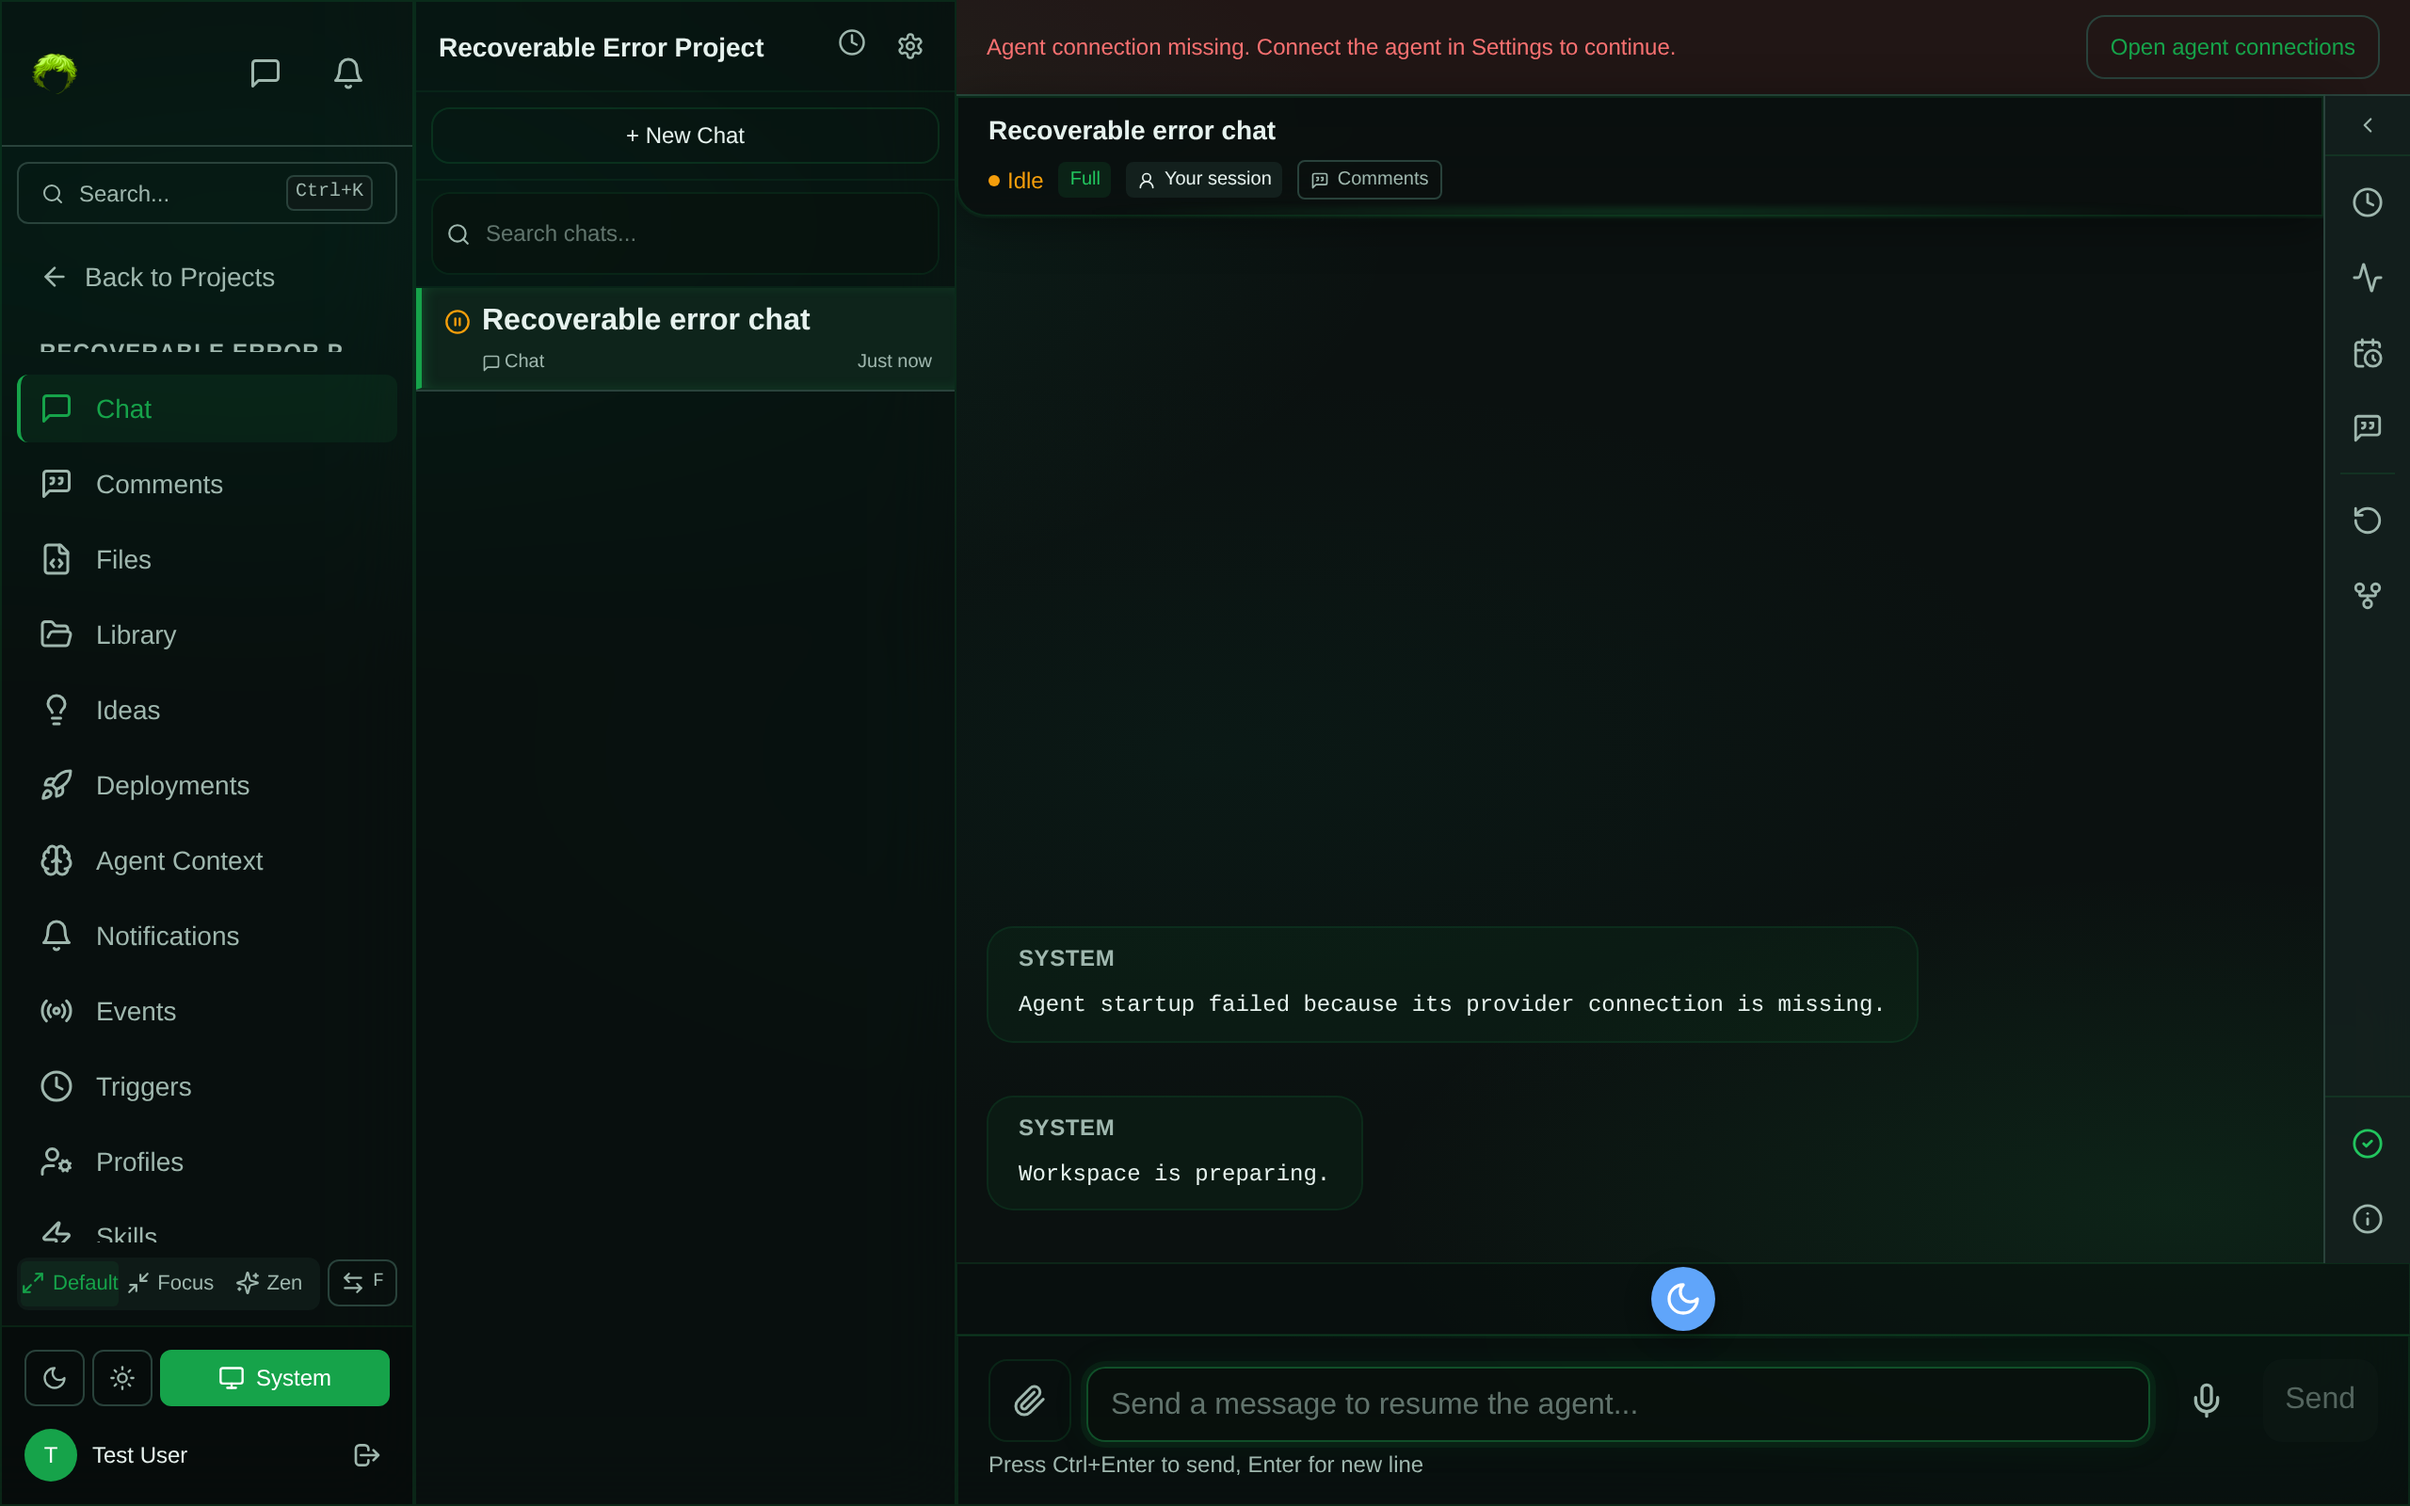
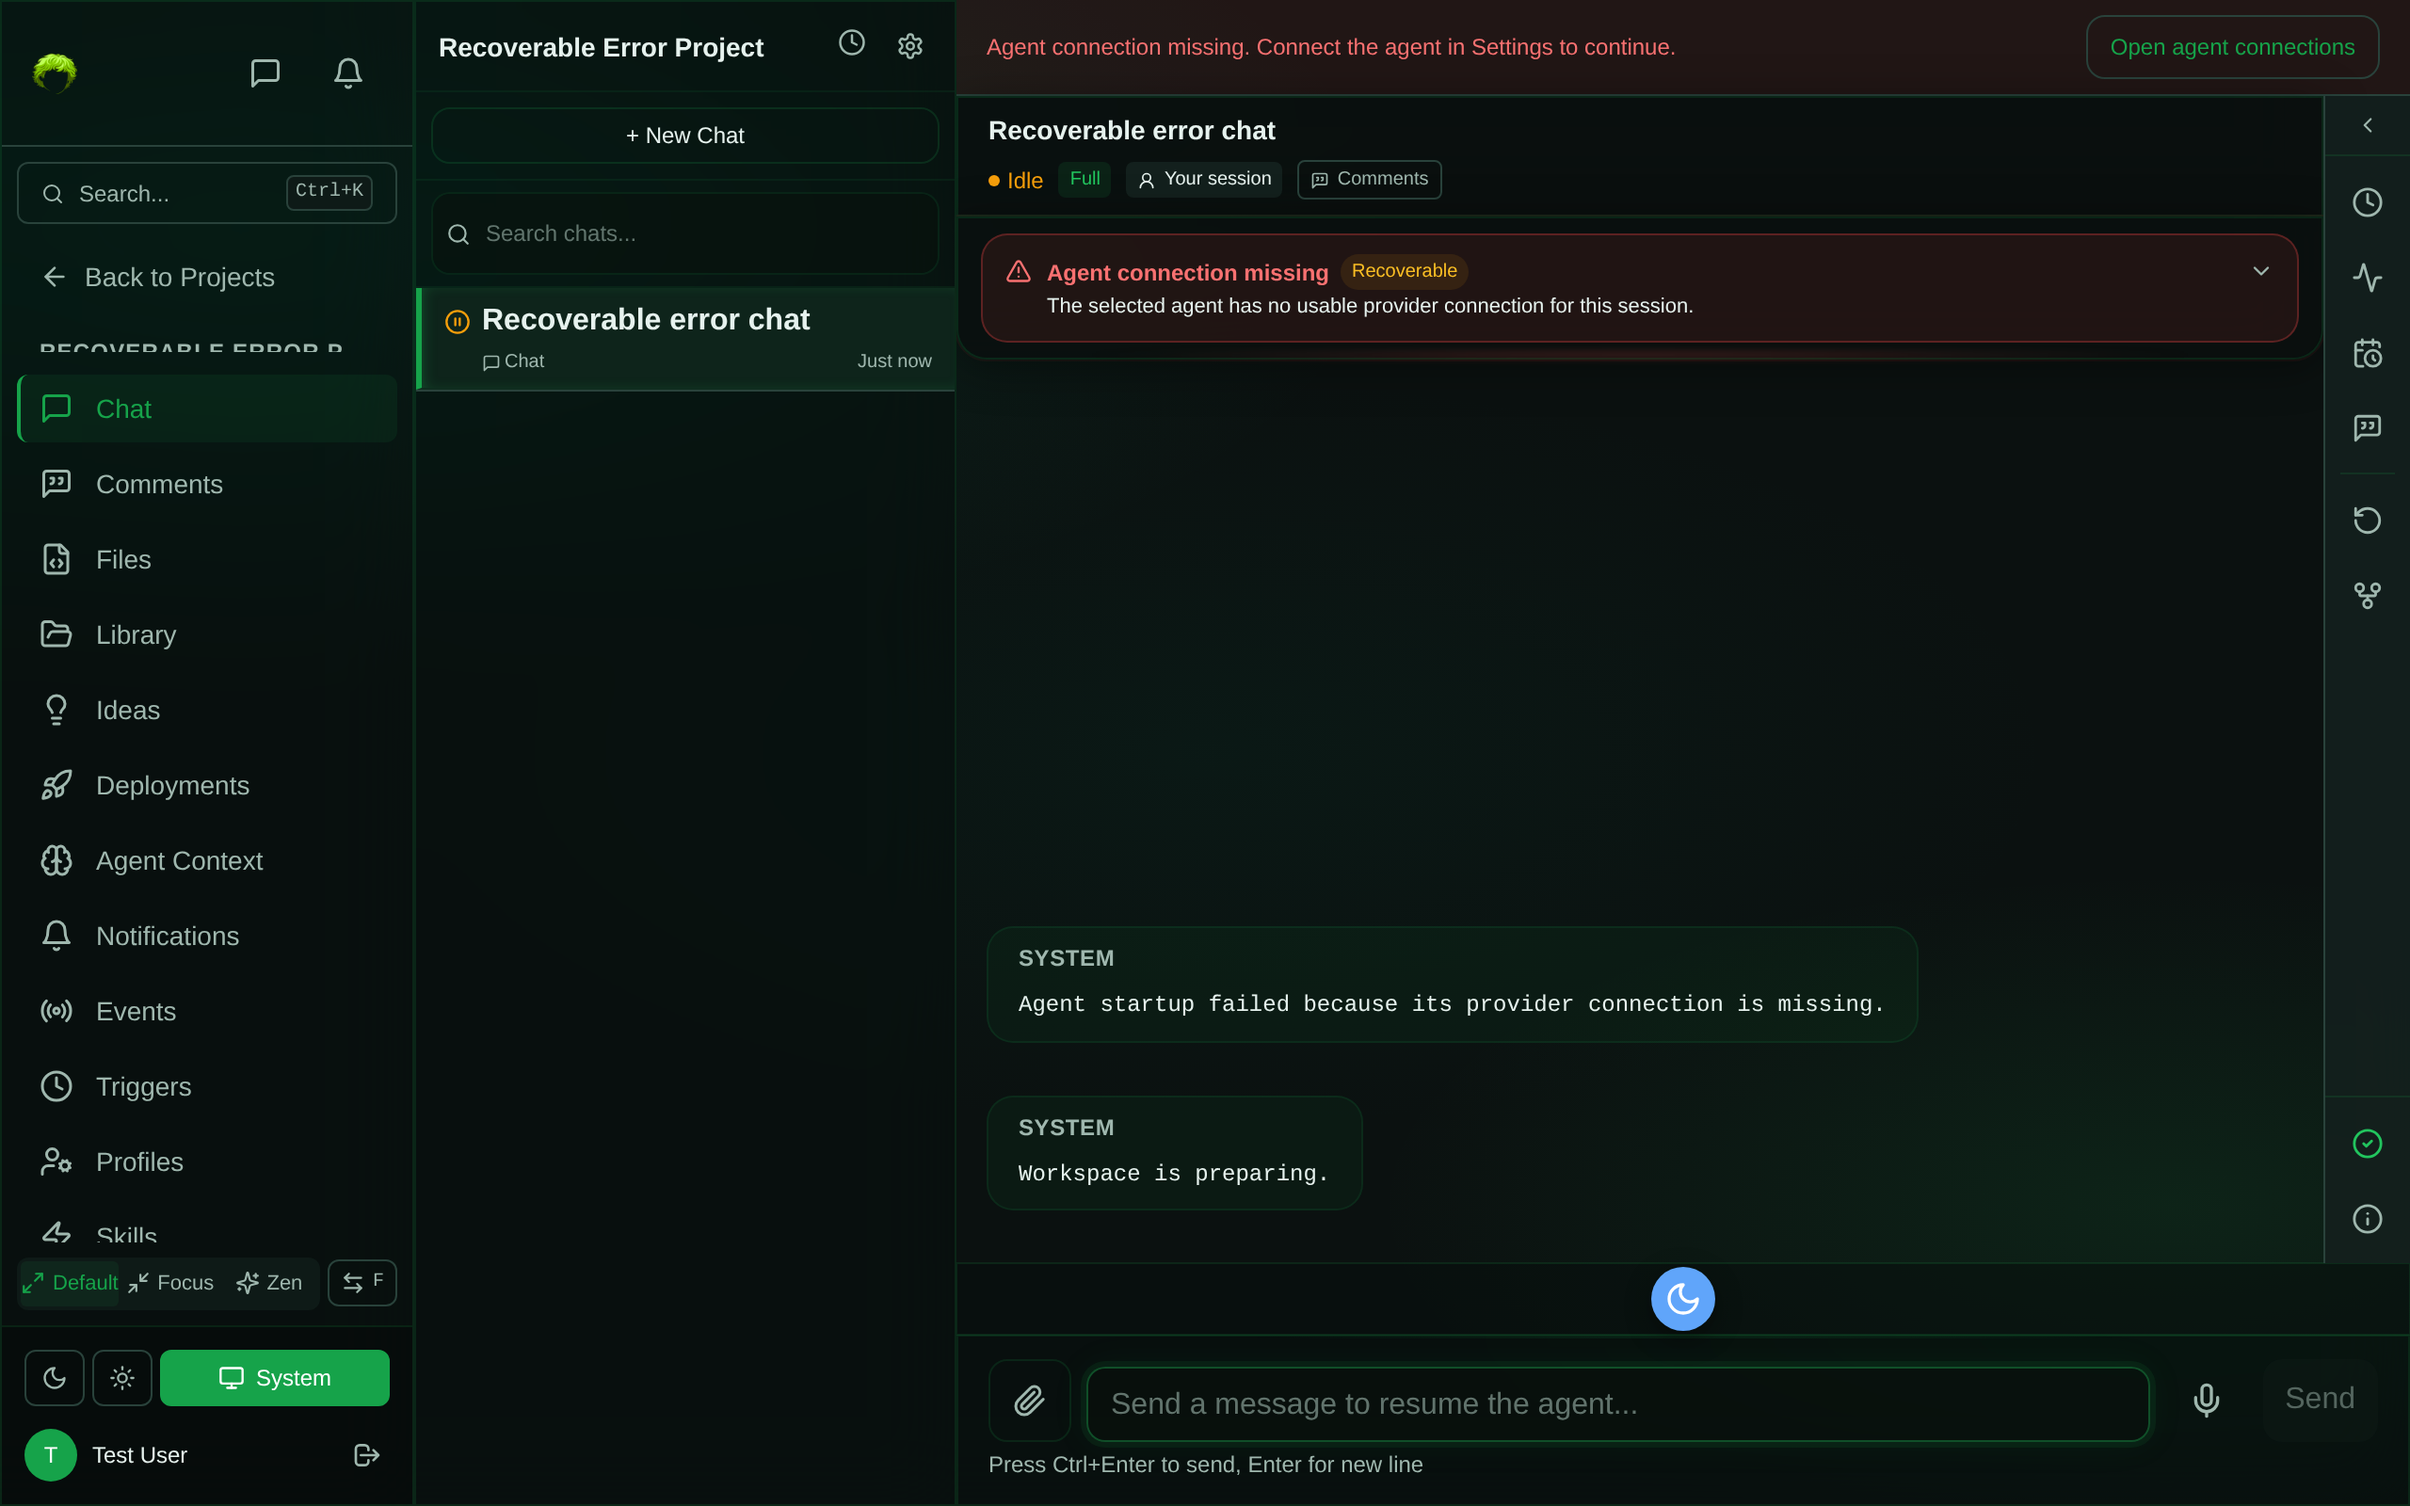
Preserve credential startup guidance and generic prompt diagnosis

Changed region(s): [[0.4062, 0.1562, 0.7188, 0.25], [0.6562, 0.125, 0.7188, 0.1562]]

diff --git a/apps/web/tests/playwright/project-chat-recoverable-error-audit.spec.ts b/apps/web/tests/playwright/project-chat-recoverable-error-audit.spec.ts
@@ -208,7 +208,7 @@ test.describe('Project chat recoverable error banner', () => {
       role: 'system',
       content: 'Agent startup failed because its provider connection is missing.',
     };
-    await setupApiMocks(page, { ...MOCK_TASK, errorMessage: null }, true, [
+    await setupApiMocks(page, { ...MOCK_TASK, errorMessage: 'model_provider_credential_missing' }, true, [
       systemMessage,
       { ...systemMessage, id: 'msg-system-later', content: 'Workspace is preparing.' },
     ]);
@@ -235,6 +235,16 @@ test.describe('Project chat recoverable error banner', () => {
     const banner = page.getByTestId('agent-connection-guidance');
     await expect(banner).toBeVisible();
     await expect(banner.getByRole('link', { name: 'Open agent connections' })).toHaveCount(0);
+  });
+
+  test('assistant or tool text cannot impersonate the startup system diagnosis', async ({ page }) => {
+    const content = 'Agent startup failed because its provider connection is missing.';
+    await setupApiMocks(page, { ...MOCK_TASK, errorMessage: null }, true, [
+      { ...MOCK_MESSAGES[0], id: 'msg-assistant-spoof', role: 'assistant', content },
+      { ...MOCK_MESSAGES[0], id: 'msg-tool-spoof', role: 'tool', content },
+    ]);
+    await page.goto('/projects/proj-test-1/chat/session-recoverable-1');
+    await expect(page.getByTestId('agent-connection-guidance')).toHaveCount(0);
   });
 
   test('new conversation turn clears stale startup guidance', async ({ page }) => {
@@ -281,6 +291,15 @@ test.describe('Project chat recoverable error banner', () => {
     await expect(card.getByText('Agent connection missing')).toBeVisible();
     await card.getByRole('button', { name: /Agent connection missing/ }).click();
     await expect(card.getByRole('link', { name: 'Open agent connections' })).toHaveCount(0);
+  });
+
+  test('generic prompt failure does not prescribe credential changes', async ({ page }) => {
+    await setupApiMocks(page, { ...MOCK_TASK, errorMessage: 'agent_prompt_failed' }, true);
+    await page.goto('/projects/proj-test-1/chat/session-recoverable-1');
+    const card = page.locator('[data-failure-kind="diagnosable"]');
+    await expect(card.getByText('Agent request failed')).toBeVisible();
+    await card.getByRole('button', { name: /Agent request failed/ }).click();
+    await expect(card.getByRole('link', { name: /connections|MCP settings/i })).toHaveCount(0);
   });
 
   test('renders recoverable error guidance and keeps the composer enabled', async ({

diff --git a/apps/web/src/components/project-message-view/SessionStatusBanners.tsx b/apps/web/src/components/project-message-view/SessionStatusBanners.tsx
@@ -8,17 +8,15 @@ import { WakeProgressBanner } from './WakeProgressBanner';
 /** The status strips stacked above the conversation: connection, resume and wake. */
 export function SessionStatusBanners({ lc }: Readonly<{ lc: UseSessionLifecycleResult }>) {
   let missingAgentConnection = false;
-  if (!lc.taskEmbed?.errorMessage) {
-    // Match only the VM's fixed system transcript. Assistant/tool prose must
-    // never create credential guidance; a later conversation turn clears it.
-    for (let i = lc.messages.length - 1; i >= 0; i--) {
-      const message = lc.messages[i];
-      if (!message) break;
-      if (message.role !== 'system') break;
-      if (message.content === 'Agent startup failed because its provider connection is missing.') {
-        missingAgentConnection = true;
-        break;
-      }
+  // The selection failure also sets the task error, so that error must not
+  // suppress its persisted transcript guidance. Only the VM's fixed system
+  // message has this provenance; assistant/tool prose cannot trigger the CTA.
+  for (let i = lc.messages.length - 1; i >= 0; i--) {
+    const message = lc.messages[i];
+    if (!message || message.role !== 'system') break;
+    if (message.content === 'Agent startup failed because its provider connection is missing.') {
+      missingAgentConnection = true;
+      break;
     }
   }
   return (

diff --git a/packages/shared/src/failure-classification.ts b/packages/shared/src/failure-classification.ts
@@ -23,6 +23,7 @@ export type FailureCode =
   | 'unsupported-loopback-auth'
   | 'model-unavailable'
   | 'provider-overload'
+  | 'agent-prompt-failed'
   | 'prompt-timeout'
   | 'agent-crash'
   | 'runtime-lost'
@@ -143,6 +144,15 @@ const FAILURE_RULES: FailureRule[] = [
     retryable: true,
     diagnosable: true,
     patterns: [/^model_provider_credential_missing$/],
+  },
+  {
+    code: 'agent-prompt-failed',
+    label: 'Agent request failed',
+    explanation: 'The agent could not complete this request. The cause is not yet known.',
+    guidance: 'Retry the request. If it fails again, copy the debug report for investigation.',
+    retryable: true,
+    diagnosable: true,
+    patterns: [/^agent_prompt_failed$/],
   },
   {
     code: 'model-credential-rejected',
@@ -324,7 +334,7 @@ const UNKNOWN_CLASSIFICATION: FailureClassification = {
 
 const AUTH_FAILURE_CODES = new Set<FailureCode>([
   'model-unavailable', 'unsupported-loopback-auth', 'mcp-auth-required',
-  'model-credential-missing', 'model-credential-rejected',
+  'model-credential-missing', 'model-credential-rejected', 'agent-prompt-failed',
 ]);
 
 function boundedAuthEvidence(message: string | null | undefined): string {

diff --git a/packages/shared/tests/unit/failure-classification.test.ts b/packages/shared/tests/unit/failure-classification.test.ts
@@ -3,6 +3,13 @@ import { describe, expect, it } from 'vitest';
 import { classifyFailure } from '../../src/failure-classification';
 
 describe('classifyFailure', () => {
+  it('keeps an unclassified prompt failure generic even when step metadata looks like auth', () => {
+    expect(classifyFailure('agent_prompt_failed', 'model_provider_credential_missing')).toMatchObject({
+      code: 'agent-prompt-failed',
+      label: 'Agent request failed',
+    });
+    expect(classifyFailure('Tool output: agent_prompt_failed').code).not.toBe('agent-prompt-failed');
+  });
   it.each([
     ['cancelled', 'Task was cancelled by the user'],
     ['input-expired', 'Human input request expired after timeout'],

diff --git a/apps/web/tests/unit/debug-failure-card.test.tsx b/apps/web/tests/unit/debug-failure-card.test.tsx
@@ -67,6 +67,14 @@ const defaultEvents = [
 ];
 
 describe('FailureCard', () => {
+  it('shows safe generic prompt guidance without a credential settings action', async () => {
+    renderWithQuery(
+      <FailureCard projectId="proj-1" taskEmbed={makeTaskEmbed({ errorMessage: 'agent_prompt_failed' })}
+        isSessionCreator />
+    );
+    expect(screen.getByText('Agent request failed')).toBeInTheDocument();
+    expect(screen.queryByRole('link', { name: /connections|MCP settings/i })).not.toBeInTheDocument();
+  });
   beforeEach(() => {
     mocks.useAuth.mockReturnValue({ isSuperadmin: false });
     mocks.listTaskEvents.mockResolvedValue({ events: defaultEvents });

diff --git a/tasks/active/2026-10-01-acp-auth-diagnosis.md b/tasks/active/2026-10-01-acp-auth-diagnosis.md
@@ -31,6 +31,8 @@ The VM only identifies a missing connection when the existing agent-key endpoint
 
 For provider failures, the VM reads the pinned ACP SDK's top-level `RequestError` (`-32603`, `Internal error`) and the pinned Claude adapter's categorical `Data.errorKind`; it emits only a bounded reason code. Claude `authentication_failed` means rejected provider credentials and `model_not_found` means unavailable model; ambiguous categories remain generic. Adjacent tests cover SDK error → prompt broadcast, callback sanitization, shared classification, and the real chat. The pinned Codex adapter holds MCP `reauthenticationRequired` internally but forwards only failed tool-call text over ACP, so SAM has no trusted MCP auth signal on the wire; this slice does not infer MCP auth from that prose. Existing GPT-6.1 provider HTTP 400 unsupported-model evidence after successful ACP selection is model availability, not credential failure.
 
+Review correction: the missing-connection startup banner remains visible when the same selection failure has set `task.errorMessage`. It requires the exact VM-authored `system` transcript message; assistant/tool content cannot trigger it. The exact `agent_prompt_failed` task reason shows retry/debug guidance without suggesting a credential change, including when unrelated execution-step text mentions authentication.
+
 ## Verification
 
 - Shared failure-classification tests: 47 passed. Web failure-card tests: 21 passed. VM agent `go test ./...` and local mock/Worker VM smoke passed; focused SDK callback, prompt broadcast, and credential tests passed after final edits. Smoke fixtures now use the current API error envelope and fixed reason code.
